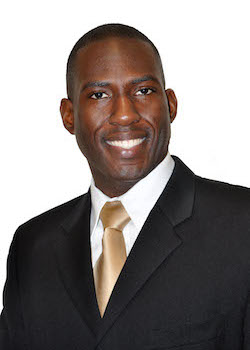
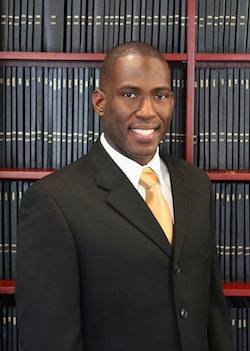
Remove old assets and change markup / styles accordingly.

diff --git a/sass/style.sass b/sass/style.sass
@@ -147,7 +147,7 @@ header
 
 .main-img
 
-	background: url(rsc/main3.jpg) center no-repeat
+	background: url(rsc/main.jpg) center no-repeat
 	height: 400px
 	
 	@include span-columns(8)
